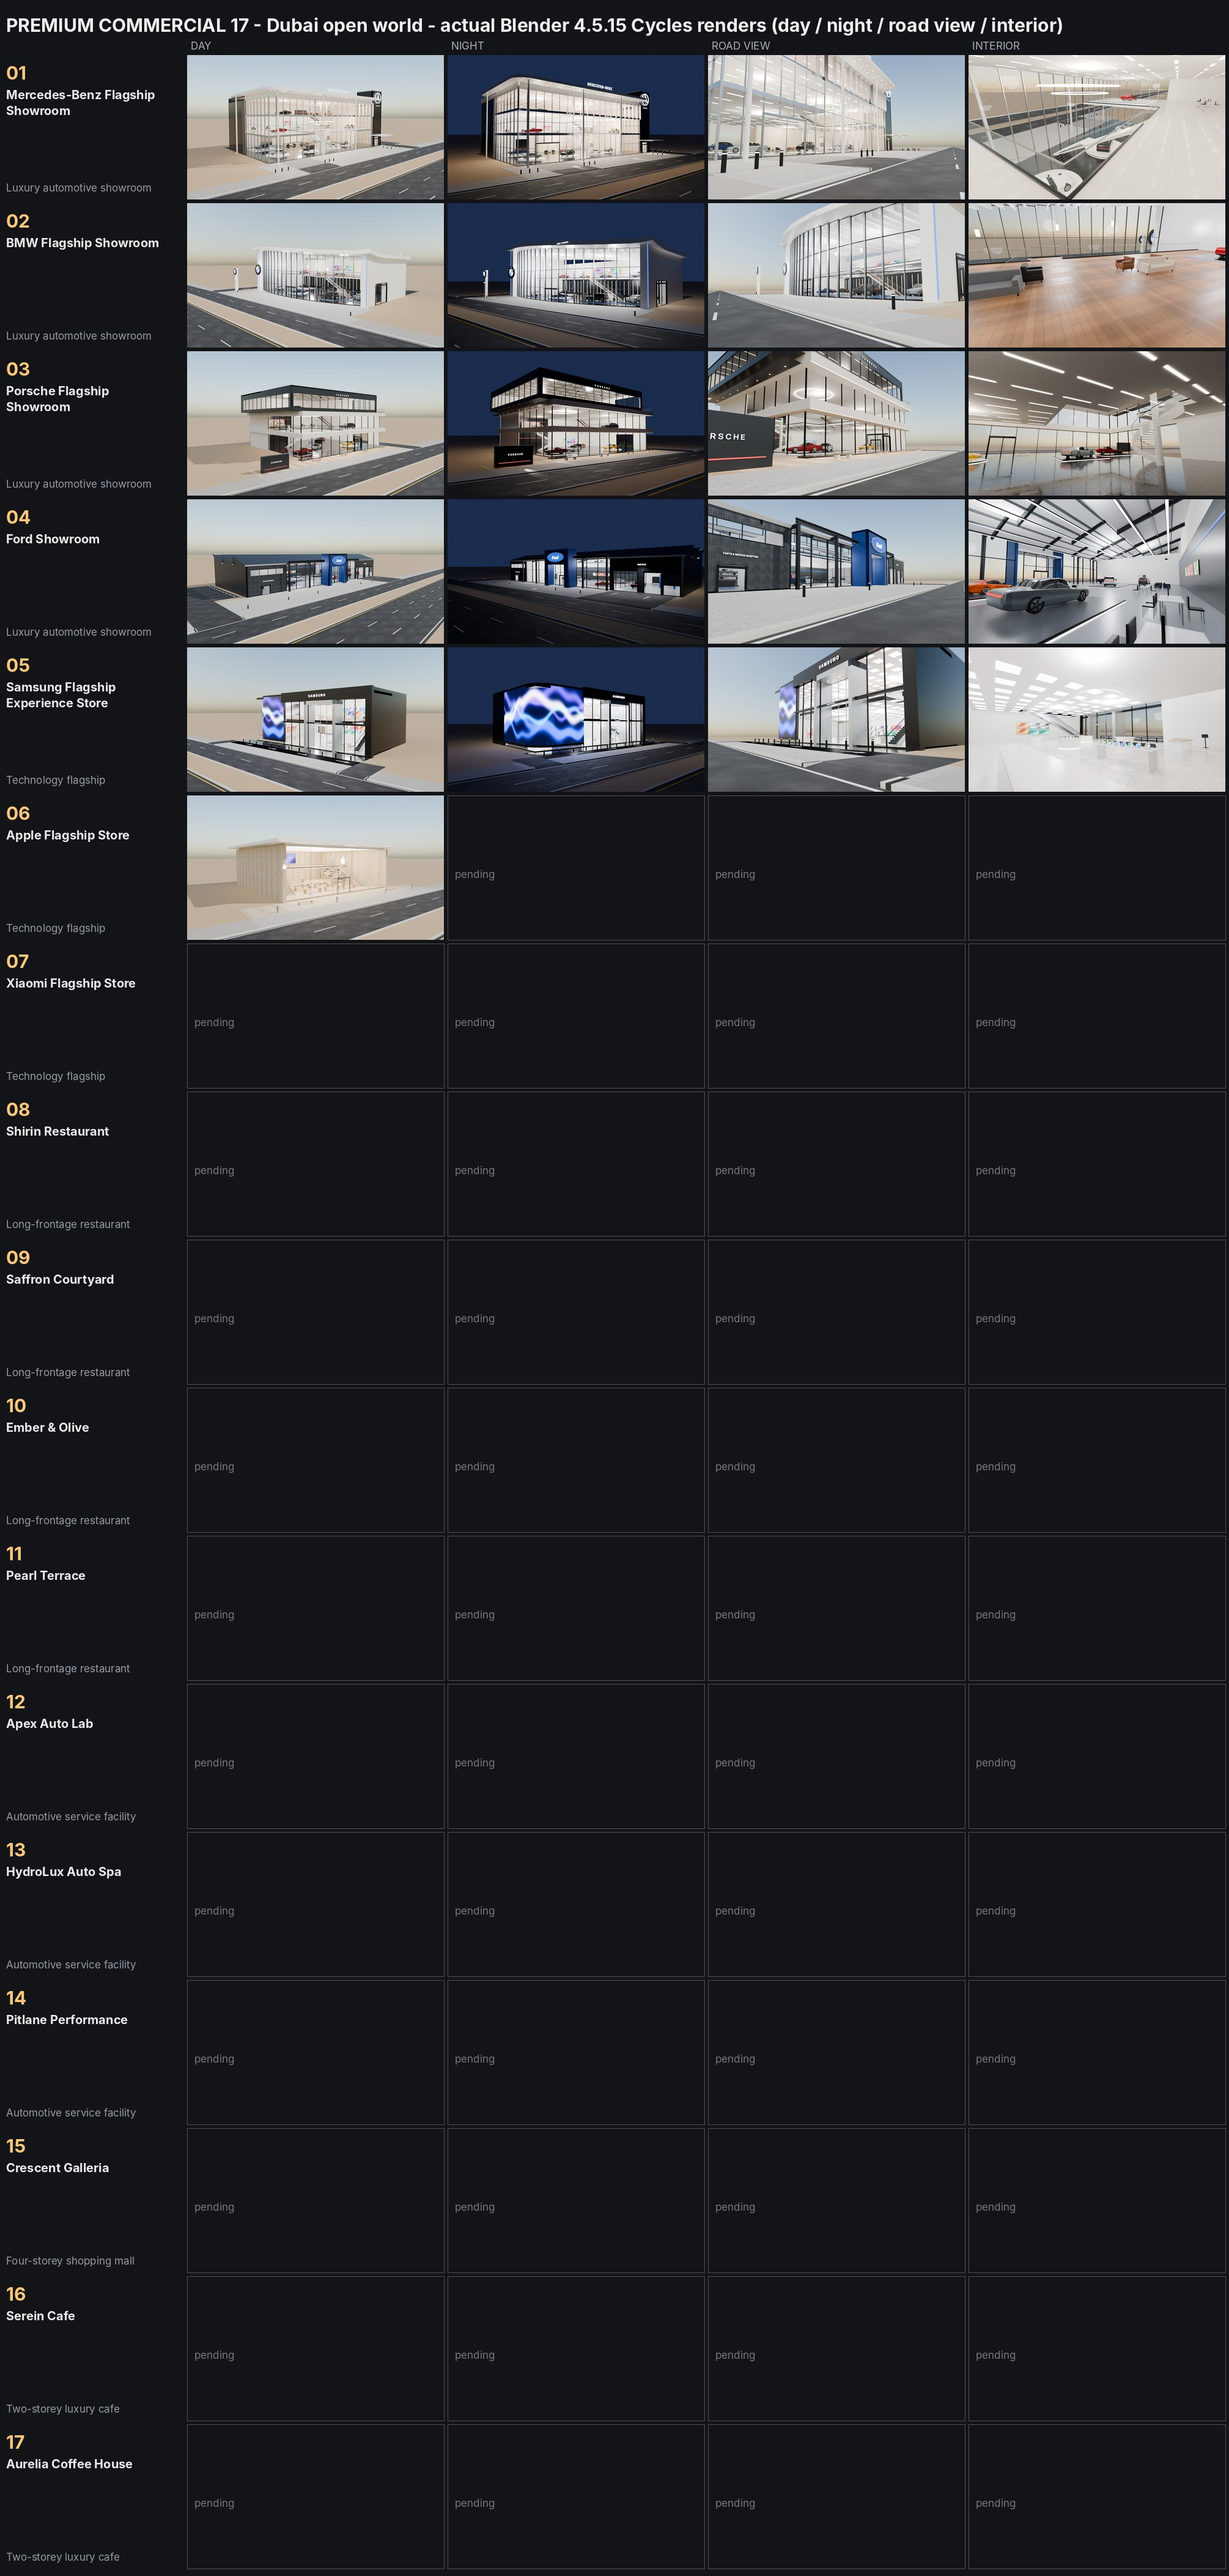
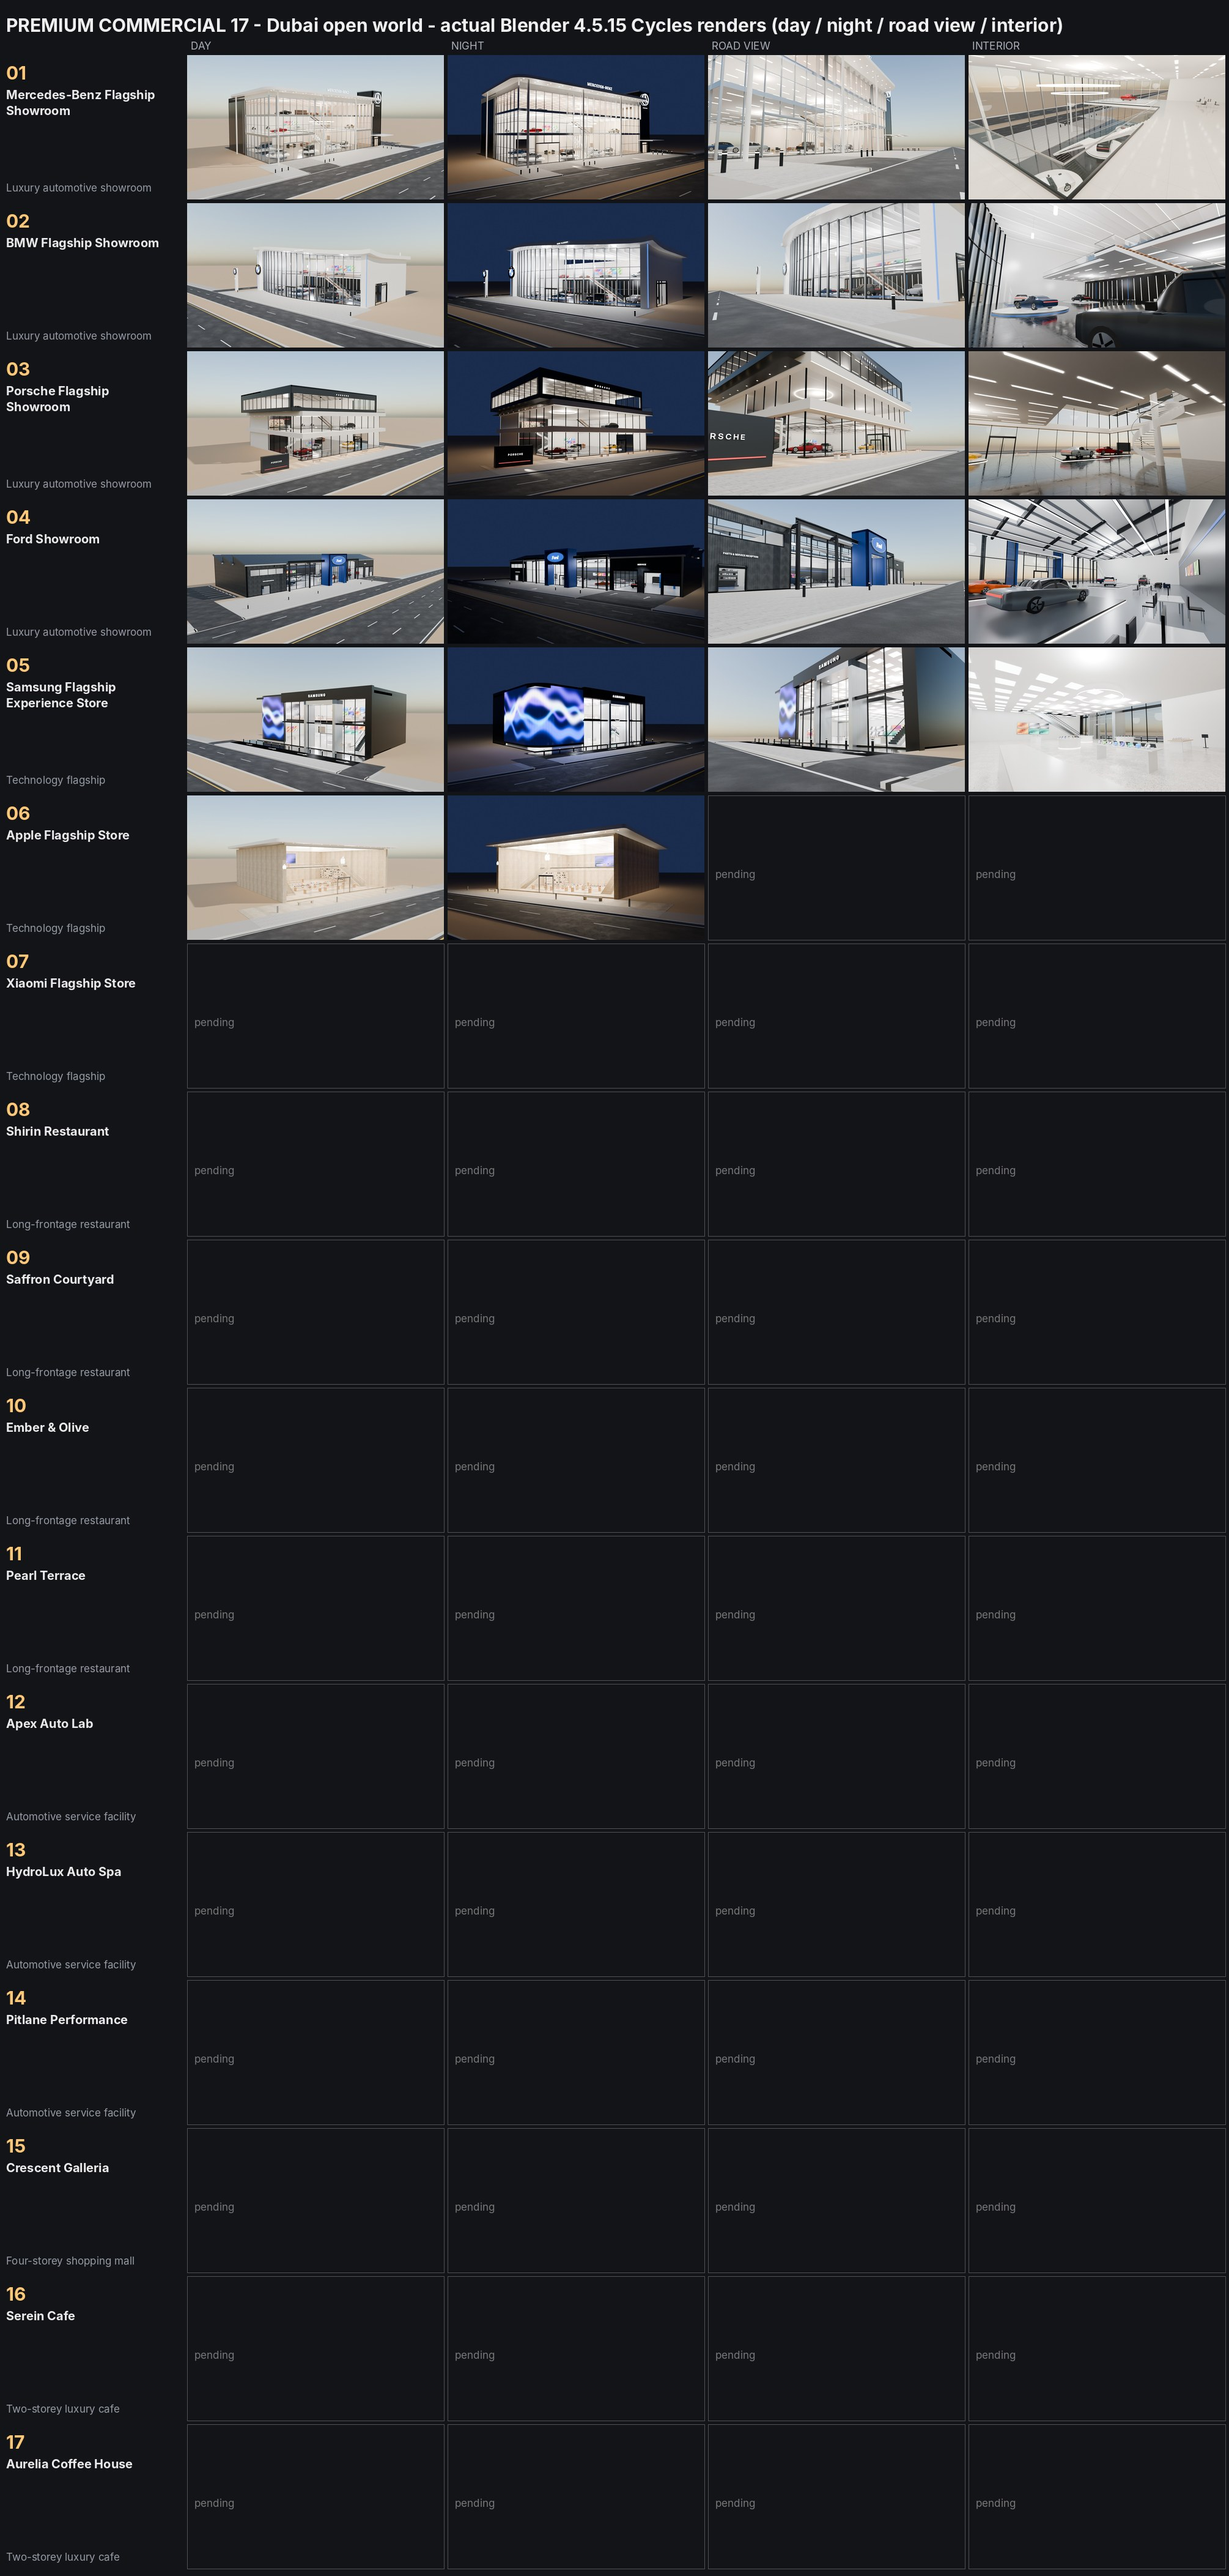
Premium Commercial 17 - BMW two-storey interior render
Claude-Session: https://claude.ai/code/session_01SmYKsHWVuE7LRLWaF3pgwz

Changed region(s): [[0.7711, 0.0622, 1.0, 0.1556], [0.3393, 0.3112, 0.5861, 0.3734]]

diff --git a/assets/roadside_stores/premium_commercial_17/BUILD_REPORT.md b/assets/roadside_stores/premium_commercial_17/BUILD_REPORT.md
@@ -1,6 +1,6 @@
 # Premium Commercial 17 - build report
 
-Generated 2026-11-03T20:21:59Z from the files on disk (Blender 4.5.15 LTS via the `bpy` module, Cycles CPU + OpenImageDenoise, headless Linux cloud container).
+Generated 2026-11-03T20:23:21Z from the files on disk (Blender 4.5.15 LTS via the `bpy` module, Cycles CPU + OpenImageDenoise, headless Linux cloud container).
 
 ## Checkpoint
 
@@ -105,6 +105,7 @@ Every asset has its own build script (`_tools/build_NN_*.py`) that designs its o
 - Branch: `claude/dubai-premium-commercial-17` (based on `claude/dubai-17-store-assets`).
 - Recent commits:
 ```
+31bdf09 Premium Commercial 17 - Samsung flagship complete; BMW interior camera moved to show both storeys
 8cd5b95 Premium Commercial 17 - Batch A: Mercedes-Benz, BMW, Porsche and Ford showrooms
 5f14174 Add all 17 additional roadside store assets with validation, 68 renders, catalog, manifest and report
 8d330ac Add additional_17 store kit, pipeline and first six stores (ADNOC, Tim Hortons, Costa, % Arabica, PAUL, Krispy Kreme)
